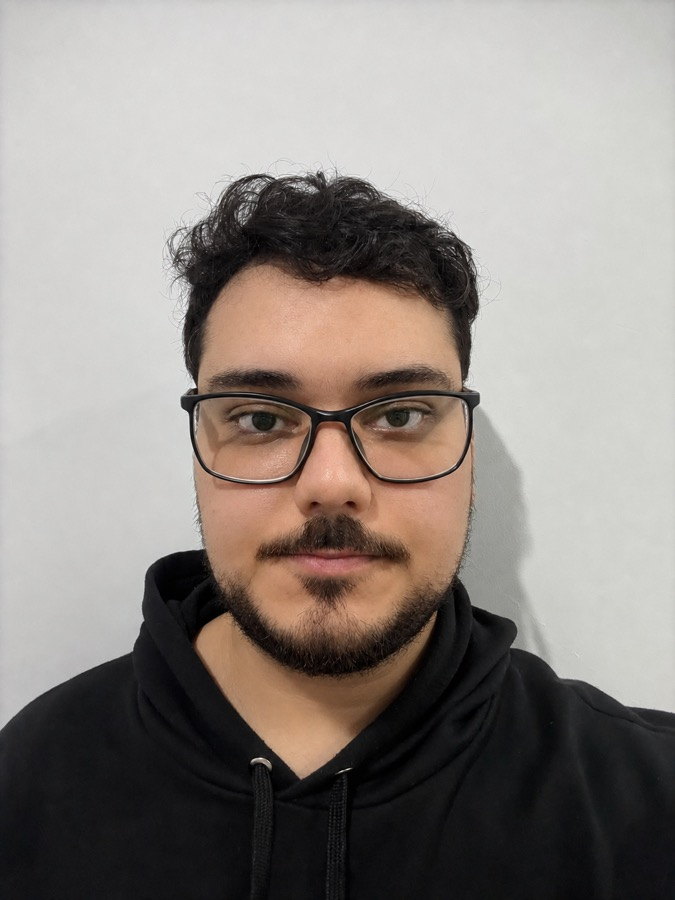
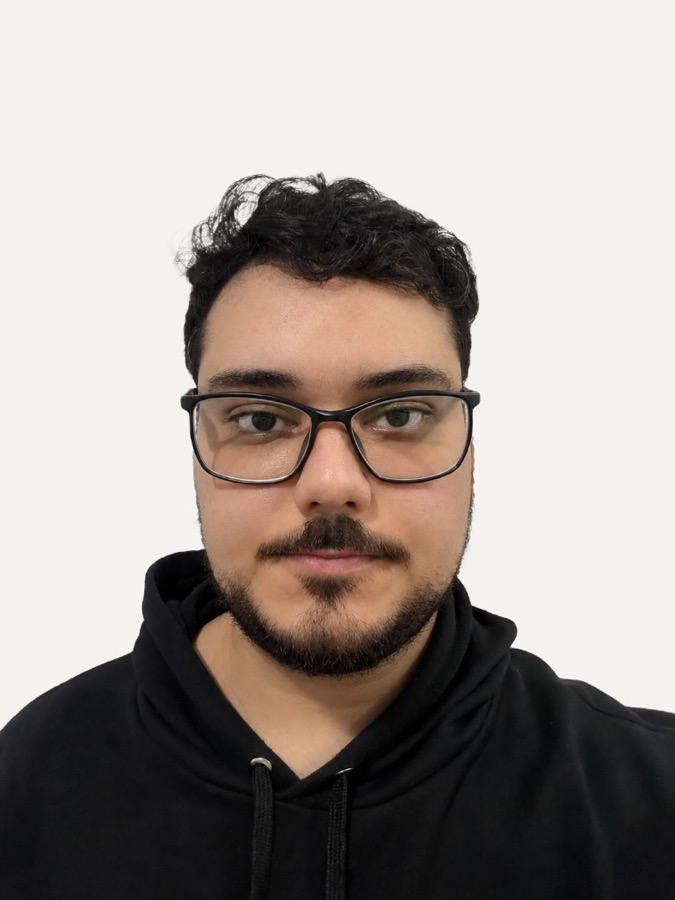
feat: swap home portrait for matched background cut

diff --git a/apps/web/src/app/page.module.css b/apps/web/src/app/page.module.css
@@ -85,16 +85,6 @@
   overflow: hidden;
   background: transparent;
   animation: rise 0.7s ease-out 0.18s both;
-  -webkit-mask-image: radial-gradient(
-    ellipse 95% 90% at 50% 40%,
-    #000 52%,
-    transparent 78%
-  );
-  mask-image: radial-gradient(
-    ellipse 95% 90% at 50% 40%,
-    #000 52%,
-    transparent 78%
-  );
 }
 
 .portraitImage {
@@ -102,7 +92,20 @@
   width: 100%;
   height: 100%;
   object-fit: cover;
-  object-position: center 12%;
+  object-position: center 18%;
+}
+
+:global([data-theme="dark"]) .portrait {
+  -webkit-mask-image: radial-gradient(
+    ellipse 96% 92% at 50% 38%,
+    #000 58%,
+    transparent 82%
+  );
+  mask-image: radial-gradient(
+    ellipse 96% 92% at 50% 38%,
+    #000 58%,
+    transparent 82%
+  );
 }
 
 .section {
